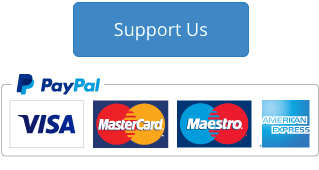
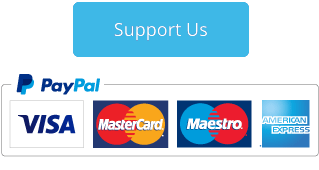
Add messages wall to donation page

Changed region(s): [[0.2257, 0.0, 0.79, 0.3529]]

diff --git a/support.html b/support.html
@@ -101,11 +101,67 @@ permalink: /support/
         <form action="https://www.paypal.com/cgi-bin/webscr" method="post" target="_top">
           <input type="hidden" name="cmd" value="_s-xclick">
           <input type="hidden" name="hosted_button_id" value="MTCBHUUWJ5C7S">
-          <input type="image" src="/assets/images/support/support_btn.png" border="0" name="submit" alt="PayPal – The safer, easier way to pay online!" style="max-width: 100%">
+          <input type="image" src="/assets/images/support/support_us.png" border="0" name="submit" alt="PayPal – The safer, easier way to pay online!" style="max-width: 100%">
           <img alt="" border="0" src="https://www.paypalobjects.com/en_GB/i/scr/pixel.gif" width="1" height="1">
         </form>
-        <br />
-        <br />
+      </div>
+    </div>
+  </div>
+</section>
+
+<section class="Quotes">
+  <div class="container">
+    <div class="row">
+      <div class="col-xs-12">
+        <h2>Some things our wonderful support-oars have said</h2>
+
+        <div class="Quotes__list">
+          <div class="col-xs-12 col-sm-4">
+            <div class="Quotes__card">
+              <p>"Every time I see a Status Row post I just think what you're doing is bloody amazing. You ladies absolutely rock! 💪 🚣♀ 🚣♀ 🚣♀"</p>
+            </div>
+          </div>
+          <div class="col-xs-12 col-sm-4">
+            <div class="Quotes__card">
+              <p>"You've inspired me this week as I'm no longer getting a plastic lid on my flasks in the morning, and I'm trying to get everyone at work to use the metal cutlery instead of the plastic stuff."</p>
+            </div>
+          </div>
+          <div class="col-xs-12 col-sm-4">
+            <div class="Quotes__card">
+              <p>"@StatusRow I didn't know you existed until a few minutes ago! You're absolutely amazing #plasticpollution #plasticwaste I will be watching 🙂 " - @wakeupwellbeing</p>
+            </div>
+          </div>
+          <div class="col-xs-12 col-sm-4">
+            <div class="Quotes__card">
+              <p>"You inspired me to get a good reusable drink bottle 😬 😁 " - @BridOConnell</p>
+            </div>
+          </div>
+          <div class="col-xs-12 col-sm-4">
+            <div class="Quotes__card">
+              <p>"I bought plastic-free cotton buds this week!"</p>
+            </div>
+          </div>
+          <div class="col-xs-12 col-sm-4">
+            <div class="Quotes__card">
+              <p>"Wow - what a challenge to take on for this important cause @StatusRow. Please read, share and support if you can everybody. #plastic #rowing" - @ElliottSportPsy</p>
+            </div>
+          </div>
+          <div class="col-xs-12 col-sm-4">
+            <div class="Quotes__card">
+              <p>"You've inspired me too! I've been resuing this bottle for about a month!"</p>
+            </div>
+          </div>
+          <div class="col-xs-12 col-sm-4">
+            <div class="Quotes__card">
+              <p>"I want to leave this world better than I found it" Awesome women rowing Atlantic for good of our world @StatusRow" - @HopeintheHearts</p>
+            </div>
+          </div>
+          <div class="col-xs-12 col-sm-4">
+            <div class="Quotes__card">
+              <p>"Amazing, epic project. Incredibly envious 😀 " - @KateDobinson</p>
+            </div>
+          </div>
+        </div>
       </div>
     </div>
   </div>

diff --git a/_site/support/index.html b/_site/support/index.html
@@ -190,11 +190,67 @@
         <form action="https://www.paypal.com/cgi-bin/webscr" method="post" target="_top">
           <input type="hidden" name="cmd" value="_s-xclick">
           <input type="hidden" name="hosted_button_id" value="MTCBHUUWJ5C7S">
-          <input type="image" src="/assets/images/support/support_btn.png" border="0" name="submit" alt="PayPal – The safer, easier way to pay online!" style="max-width: 100%">
+          <input type="image" src="/assets/images/support/support_us.png" border="0" name="submit" alt="PayPal – The safer, easier way to pay online!" style="max-width: 100%">
           <img alt="" border="0" src="https://www.paypalobjects.com/en_GB/i/scr/pixel.gif" width="1" height="1">
         </form>
-        <br />
-        <br />
+      </div>
+    </div>
+  </div>
+</section>
+
+<section class="Quotes">
+  <div class="container">
+    <div class="row">
+      <div class="col-xs-12">
+        <h2>Some things our wonderful support-oars have said</h2>
+
+        <div class="Quotes__list">
+          <div class="col-xs-12 col-sm-4">
+            <div class="Quotes__card">
+              <p>"Every time I see a Status Row post I just think what you're doing is bloody amazing. You ladies absolutely rock! 💪 🚣♀ 🚣♀ 🚣♀"</p>
+            </div>
+          </div>
+          <div class="col-xs-12 col-sm-4">
+            <div class="Quotes__card">
+              <p>"You've inspired me this week as I'm no longer getting a plastic lid on my flasks in the morning, and I'm trying to get everyone at work to use the metal cutlery instead of the plastic stuff."</p>
+            </div>
+          </div>
+          <div class="col-xs-12 col-sm-4">
+            <div class="Quotes__card">
+              <p>"@StatusRow I didn't know you existed until a few minutes ago! You're absolutely amazing #plasticpollution #plasticwaste I will be watching 🙂 " - @wakeupwellbeing</p>
+            </div>
+          </div>
+          <div class="col-xs-12 col-sm-4">
+            <div class="Quotes__card">
+              <p>"You inspired me to get a good reusable drink bottle 😬 😁 " - @BridOConnell</p>
+            </div>
+          </div>
+          <div class="col-xs-12 col-sm-4">
+            <div class="Quotes__card">
+              <p>"I bought plastic-free cotton buds this week!"</p>
+            </div>
+          </div>
+          <div class="col-xs-12 col-sm-4">
+            <div class="Quotes__card">
+              <p>"Wow - what a challenge to take on for this important cause @StatusRow. Please read, share and support if you can everybody. #plastic #rowing" - @ElliottSportPsy</p>
+            </div>
+          </div>
+          <div class="col-xs-12 col-sm-4">
+            <div class="Quotes__card">
+              <p>"You've inspired me too! I've been resuing this bottle for about a month!"</p>
+            </div>
+          </div>
+          <div class="col-xs-12 col-sm-4">
+            <div class="Quotes__card">
+              <p>"I want to leave this world better than I found it" Awesome women rowing Atlantic for good of our world @StatusRow" - @HopeintheHearts</p>
+            </div>
+          </div>
+          <div class="col-xs-12 col-sm-4">
+            <div class="Quotes__card">
+              <p>"Amazing, epic project. Incredibly envious 😀 " - @KateDobinson</p>
+            </div>
+          </div>
+        </div>
       </div>
     </div>
   </div>

diff --git a/_site/css/style.css b/_site/css/style.css
@@ -302,3 +302,29 @@
     padding: 0 30px 30px ;
   }
 }
+
+.Quotes {
+  margin: 60px auto;
+}
+.Quotes h2 {
+  text-align: center;
+}
+.Quotes__card {
+  width: 100%;
+  background: #EDE554;
+  color: #344359;
+  padding: 30px;
+  border-radius: 3px;
+  margin: 10px;
+}
+.Quotes__list {
+  margin-top: 60px;
+}
+.Quotes__list .col-xs-12:nth-child(even) .Quotes__card {
+  width: 100%;
+  color: #EDE554;
+  background: #344359;
+  padding: 30px;
+  border-radius: 3px;
+  margin: 10px;
+}

diff --git a/css/style.css b/css/style.css
@@ -302,3 +302,29 @@
     padding: 0 30px 30px ;
   }
 }
+
+.Quotes {
+  margin: 60px auto;
+}
+.Quotes h2 {
+  text-align: center;
+}
+.Quotes__card {
+  width: 100%;
+  background: #EDE554;
+  color: #344359;
+  padding: 30px;
+  border-radius: 3px;
+  margin: 10px;
+}
+.Quotes__list {
+  margin-top: 60px;
+}
+.Quotes__list .col-xs-12:nth-child(even) .Quotes__card {
+  width: 100%;
+  color: #EDE554;
+  background: #344359;
+  padding: 30px;
+  border-radius: 3px;
+  margin: 10px;
+}
